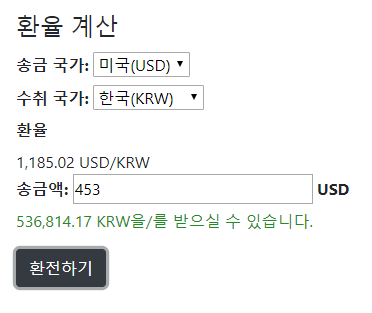
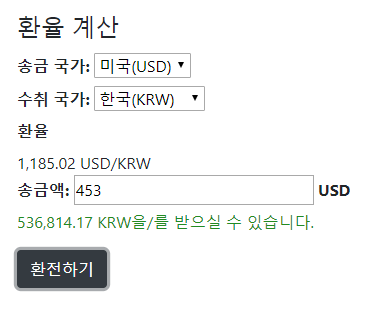
부트스트랩 적용 및 WebConfig 수정

diff --git a/src/main/resources/templates/index.html b/src/main/resources/templates/index.html
@@ -18,18 +18,21 @@
 <div class="container-fluid">
     <div>
         <fieldset>
+
             <legend>환율 계산</legend>
+
             <div class="fromdiv">
                 <label for="from"><b>송금 국가: </b></label>
-                <select id="from">
+                <select id="from" class="form-control" style="width: 450px">
                     <option selected value="USD">미국(USD)</option>
                 </select>
             </div>
+
             <div class="todiv">
                 <label for="to"><b>수취 국가: </b></label>
-                <select id="to">
+                <select id="to" class="form-control" style="width: 450px">
                     <option selected value="KRW">한국(KRW)</option>
-                    <option value="JPY">일본(JPN)</option>
+                    <option value="JPY">일본(JPY)</option>
                     <option value="PHP">필리핀(PHP)</option>
                 </select>
             </div>
@@ -41,14 +44,18 @@
                 </div>
             </div>
 
-            <div class="amountdiv">
-                <label for="amount"><b>송금액: </b></label>
-                <input type="text" id="amount" style="width: 240px;" placeholder=""> <b>USD</b></input>
+            <div class="input-group mb-3" style="width: 450px">
+                <div class="input-group-prepend">
+                    <span class="input-group-text">송금액</span>
+                    <span class="input-group-text">USD</span>
+                </div>
+                <input type="text" id="amount" class="form-control" aria-label="Recipient's username"
+                       aria-describedby="basic-addon2">
+                <div class="input-group-append">
+                    <button class="btn btn-secondary" type="button" onclick="getExchangedAmount()">환전</button>
+                </div>
             </div>
             <div id="inputCheckResult">
-            </div>
-            <div>
-                <button class="btn btn-dark" onclick="getExchangedAmount()">환전하기</button>
             </div>
 
         </fieldset>
@@ -64,6 +71,11 @@
     $('select').on('change', function () {
         getCurrencyRate();
     });
+    $('#amount').keypress(function (e) {
+        if (e.which === 13) {
+            getExchangedAmount();
+        }
+    });
 
     function getCurrencyRate() {
         var from = $('#from').val();
@@ -77,7 +89,7 @@
             success: function (data) {
                 console.log(data);
 
-                $('#currency').text(data + " " + from + "/" + to);
+                $('#currency').text(data + " " + to + "/" + from);
             },
             error: function (err) {
                 console.log(err);
@@ -89,7 +101,7 @@
     function getExchangedAmount() {
         var from = $('#from').val();
         var to = $('#to').val();
-        var amount =$('#amount').val();
+        var amount = $('#amount').val();
 
         if (wrongInput()) {
             $('#inputCheckResult').html("<div style='color: #ff6666;'><p>송금액을 확인해주세요.</p></div>");
@@ -104,23 +116,22 @@
             type: 'get',
             success: function (data) {
                 console.log(data);
-                $('#currency').text(data.currency + " " + from + "/" + to);
-                $('#inputCheckResult').html("<div style='color: forestgreen;'><p>"+data.stringAmount+ " " + to + "을/를 받으실 수 있습니다.</p></div>");
+                $('#currency').text(data.currency + " " + to + "/" + from);
+                $('#inputCheckResult').html("<div style='color: forestgreen;'><p>" + data.stringAmount + " " + to + "을/를 받으실 수 있습니다.</p></div>");
             },
             error: function (err) {
                 console.log(err);
             }
-
         })
 
         function wrongInput() {
             var amount = $('#amount').val();
             var reg = /[-+]?[0-9]*\.?[0-9]+/;
-            if(reg.test(amount)==false){
-               return true;
+            if (reg.test(amount) == false) {
+                return true;
             }
             return (amount.length <= 0 || amount < 0 || amount > 10000);
-
         }
+
     }
 </script>

diff --git a/target/classes/templates/index.html b/target/classes/templates/index.html
@@ -18,18 +18,21 @@
 <div class="container-fluid">
     <div>
         <fieldset>
+
             <legend>환율 계산</legend>
+
             <div class="fromdiv">
                 <label for="from"><b>송금 국가: </b></label>
-                <select id="from">
+                <select id="from" class="form-control" style="width: 450px">
                     <option selected value="USD">미국(USD)</option>
                 </select>
             </div>
+
             <div class="todiv">
                 <label for="to"><b>수취 국가: </b></label>
-                <select id="to">
+                <select id="to" class="form-control" style="width: 450px">
                     <option selected value="KRW">한국(KRW)</option>
-                    <option value="JPY">일본(JPN)</option>
+                    <option value="JPY">일본(JPY)</option>
                     <option value="PHP">필리핀(PHP)</option>
                 </select>
             </div>
@@ -41,14 +44,18 @@
                 </div>
             </div>
 
-            <div class="amountdiv">
-                <label for="amount"><b>송금액: </b></label>
-                <input type="text" id="amount" style="width: 240px;" placeholder=""> <b>USD</b></input>
+            <div class="input-group mb-3" style="width: 450px">
+                <div class="input-group-prepend">
+                    <span class="input-group-text">송금액</span>
+                    <span class="input-group-text">USD</span>
+                </div>
+                <input type="text" id="amount" class="form-control" aria-label="Recipient's username"
+                       aria-describedby="basic-addon2">
+                <div class="input-group-append">
+                    <button class="btn btn-secondary" type="button" onclick="getExchangedAmount()">환전</button>
+                </div>
             </div>
             <div id="inputCheckResult">
-            </div>
-            <div>
-                <button class="btn btn-dark" onclick="getExchangedAmount()">환전하기</button>
             </div>
 
         </fieldset>
@@ -64,6 +71,11 @@
     $('select').on('change', function () {
         getCurrencyRate();
     });
+    $('#amount').keypress(function (e) {
+        if (e.which === 13) {
+            getExchangedAmount();
+        }
+    });
 
     function getCurrencyRate() {
         var from = $('#from').val();
@@ -77,7 +89,7 @@
             success: function (data) {
                 console.log(data);
 
-                $('#currency').text(data + " " + from + "/" + to);
+                $('#currency').text(data + " " + to + "/" + from);
             },
             error: function (err) {
                 console.log(err);
@@ -89,7 +101,7 @@
     function getExchangedAmount() {
         var from = $('#from').val();
         var to = $('#to').val();
-        var amount =$('#amount').val();
+        var amount = $('#amount').val();
 
         if (wrongInput()) {
             $('#inputCheckResult').html("<div style='color: #ff6666;'><p>송금액을 확인해주세요.</p></div>");
@@ -104,23 +116,22 @@
             type: 'get',
             success: function (data) {
                 console.log(data);
-                $('#currency').text(data.currency + " " + from + "/" + to);
-                $('#inputCheckResult').html("<div style='color: forestgreen;'><p>"+data.stringAmount+ " " + to + "을/를 받으실 수 있습니다.</p></div>");
+                $('#currency').text(data.currency + " " + to + "/" + from);
+                $('#inputCheckResult').html("<div style='color: forestgreen;'><p>" + data.stringAmount + " " + to + "을/를 받으실 수 있습니다.</p></div>");
             },
             error: function (err) {
                 console.log(err);
             }
-
         })
 
         function wrongInput() {
             var amount = $('#amount').val();
             var reg = /[-+]?[0-9]*\.?[0-9]+/;
-            if(reg.test(amount)==false){
-               return true;
+            if (reg.test(amount) == false) {
+                return true;
             }
             return (amount.length <= 0 || amount < 0 || amount > 10000);
-
         }
+
     }
 </script>

diff --git a/src/main/java/com/example/currencyexchange/service/CurrencyLayerAPIServiceImpl.java b/src/main/java/com/example/currencyexchange/service/CurrencyLayerAPIServiceImpl.java
@@ -12,6 +12,8 @@ import java.util.concurrent.TimeUnit;
 
 @Service
 public class CurrencyLayerAPIServiceImpl implements CurrencyLayerAPIService {
+    //기존 twelvebooks 프로젝트에서는 rest.properties파일에 api키를 집어넣어 RestProperties클래스에서 getResourceAsStream() 메서드를 사용해 API KEY를 읽어왔으나
+    //이번 프로젝트에서는 Environment와 @Value중 무엇을 사용할까 하다 @Value를 사용해보기로 결정했습니다.
     @Value("${currencyLayer.accessKey}")
     private String accessKey;
     @Value("${currencyLayer.endPoint}")
@@ -55,11 +57,9 @@ public class CurrencyLayerAPIServiceImpl implements CurrencyLayerAPIService {
         //조금 더 큰 단위로 변환하는것을 추천하기에 toMinutes 변경, refreshRate도 역시 분 단위로 변경
         long currentMin = TimeUnit.MILLISECONDS.toMinutes(System.currentTimeMillis());
         if(TimeUnit.SECONDS.toMinutes(currentMin - currencyLayerDto.getTimestamp()) > refreshRate){
-            System.out.println("not latest! update required");
             latest = false;
         }
         if(TimeUnit.SECONDS.toMinutes(currentMin - currencyLayerDto.getTimestamp()) <= refreshRate){
-            System.out.println("latest! update not required");
             latest = true;
         }
         return latest;

diff --git a/src/main/java/com/example/currencyexchange/config/WebConfig.java b/src/main/java/com/example/currencyexchange/config/WebConfig.java
@@ -1,19 +1,24 @@
 package com.example.currencyexchange.config;
 
 import org.springframework.beans.factory.annotation.Autowired;
+import org.springframework.beans.factory.annotation.Value;
 import org.springframework.context.annotation.Bean;
 import org.springframework.context.annotation.Configuration;
 import org.springframework.web.reactive.function.client.WebClient;
 
+import javax.validation.Valid;
+
 @Configuration
 public class WebConfig {
+    @Value("${currencyLayer.endPoint}")
+    private String endPoint;
 
     @Autowired
     WebClient.Builder webClientBuild;
 
     @Bean
     public WebClient webClient() {
-        WebClient webClient = webClientBuild.baseUrl("http://apilayer.net/api/").build();
+        WebClient webClient = webClientBuild.baseUrl(endPoint).build();
         return webClient;
     }
 

diff --git a/src/main/java/com/example/currencyexchange/scheduler/GetCurrencyRateScheduler.java b/src/main/java/com/example/currencyexchange/scheduler/GetCurrencyRateScheduler.java
@@ -3,7 +3,6 @@ package com.example.currencyexchange.scheduler;
 import com.example.currencyexchange.service.CurrencyLayerAPIService;
 import lombok.extern.slf4j.Slf4j;
 import org.springframework.beans.factory.annotation.Autowired;
-import org.springframework.beans.factory.annotation.Value;
 import org.springframework.scheduling.annotation.Scheduled;
 import org.springframework.stereotype.Component;
 
